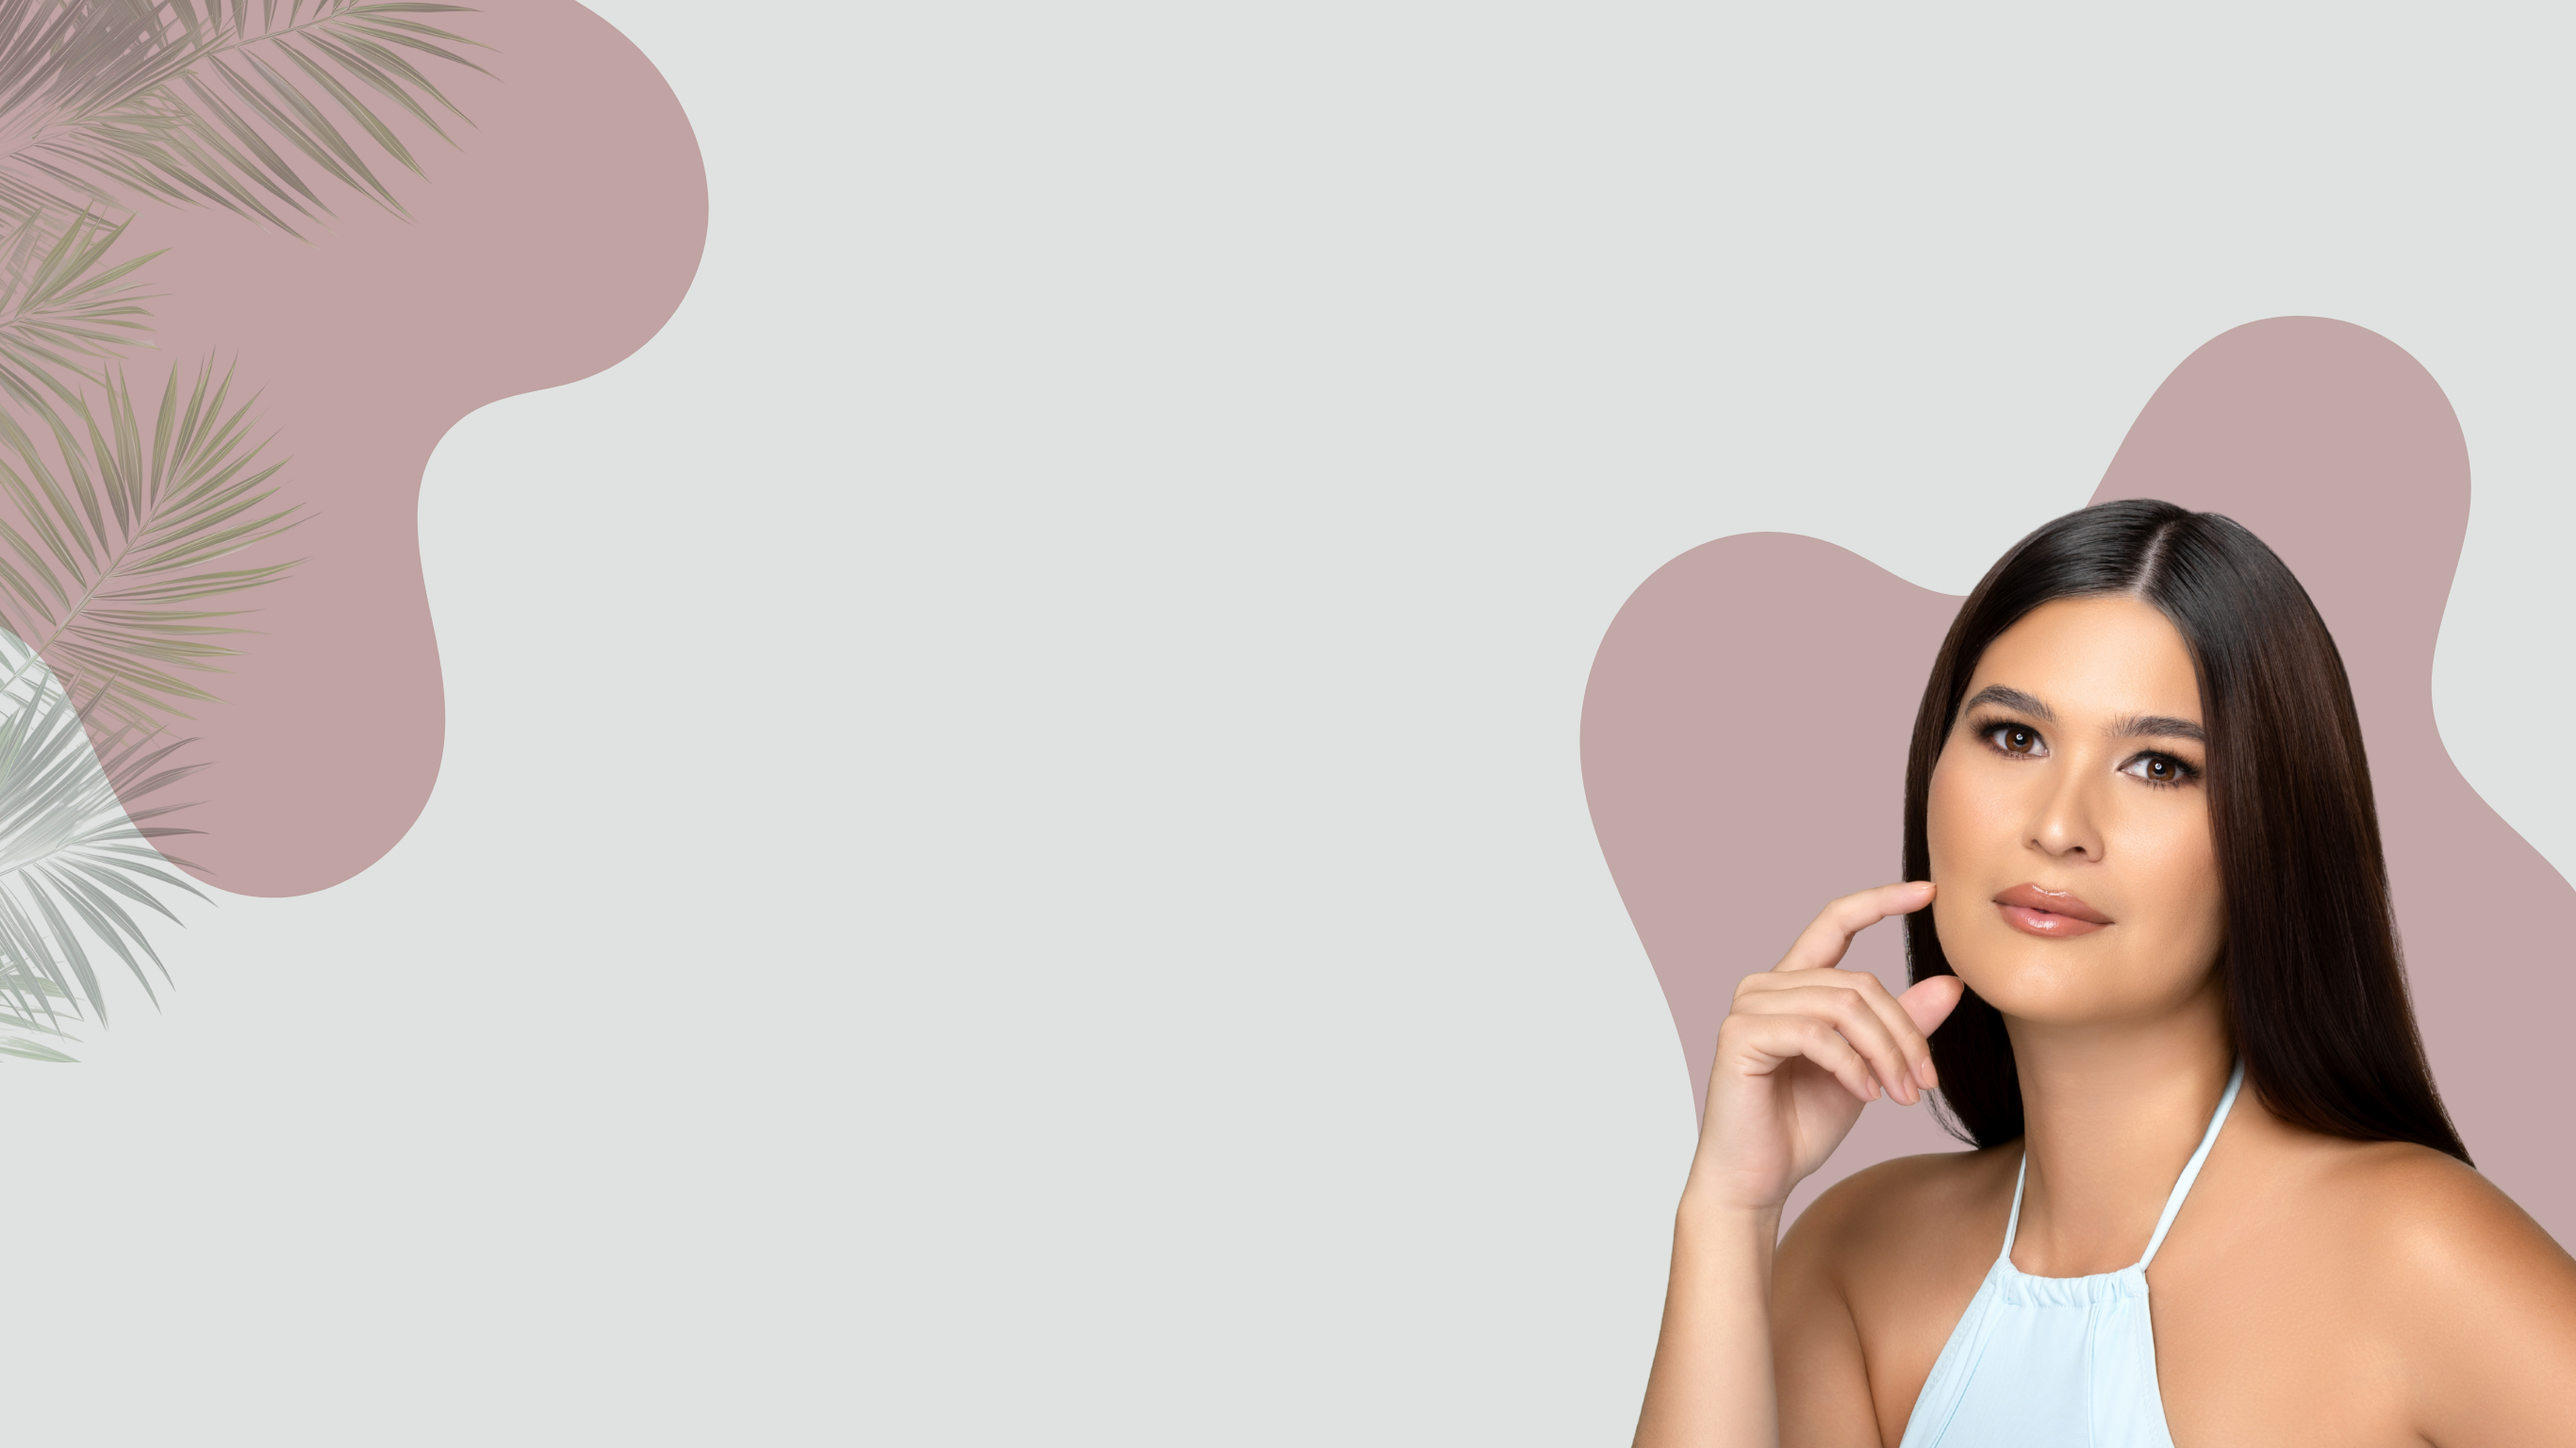
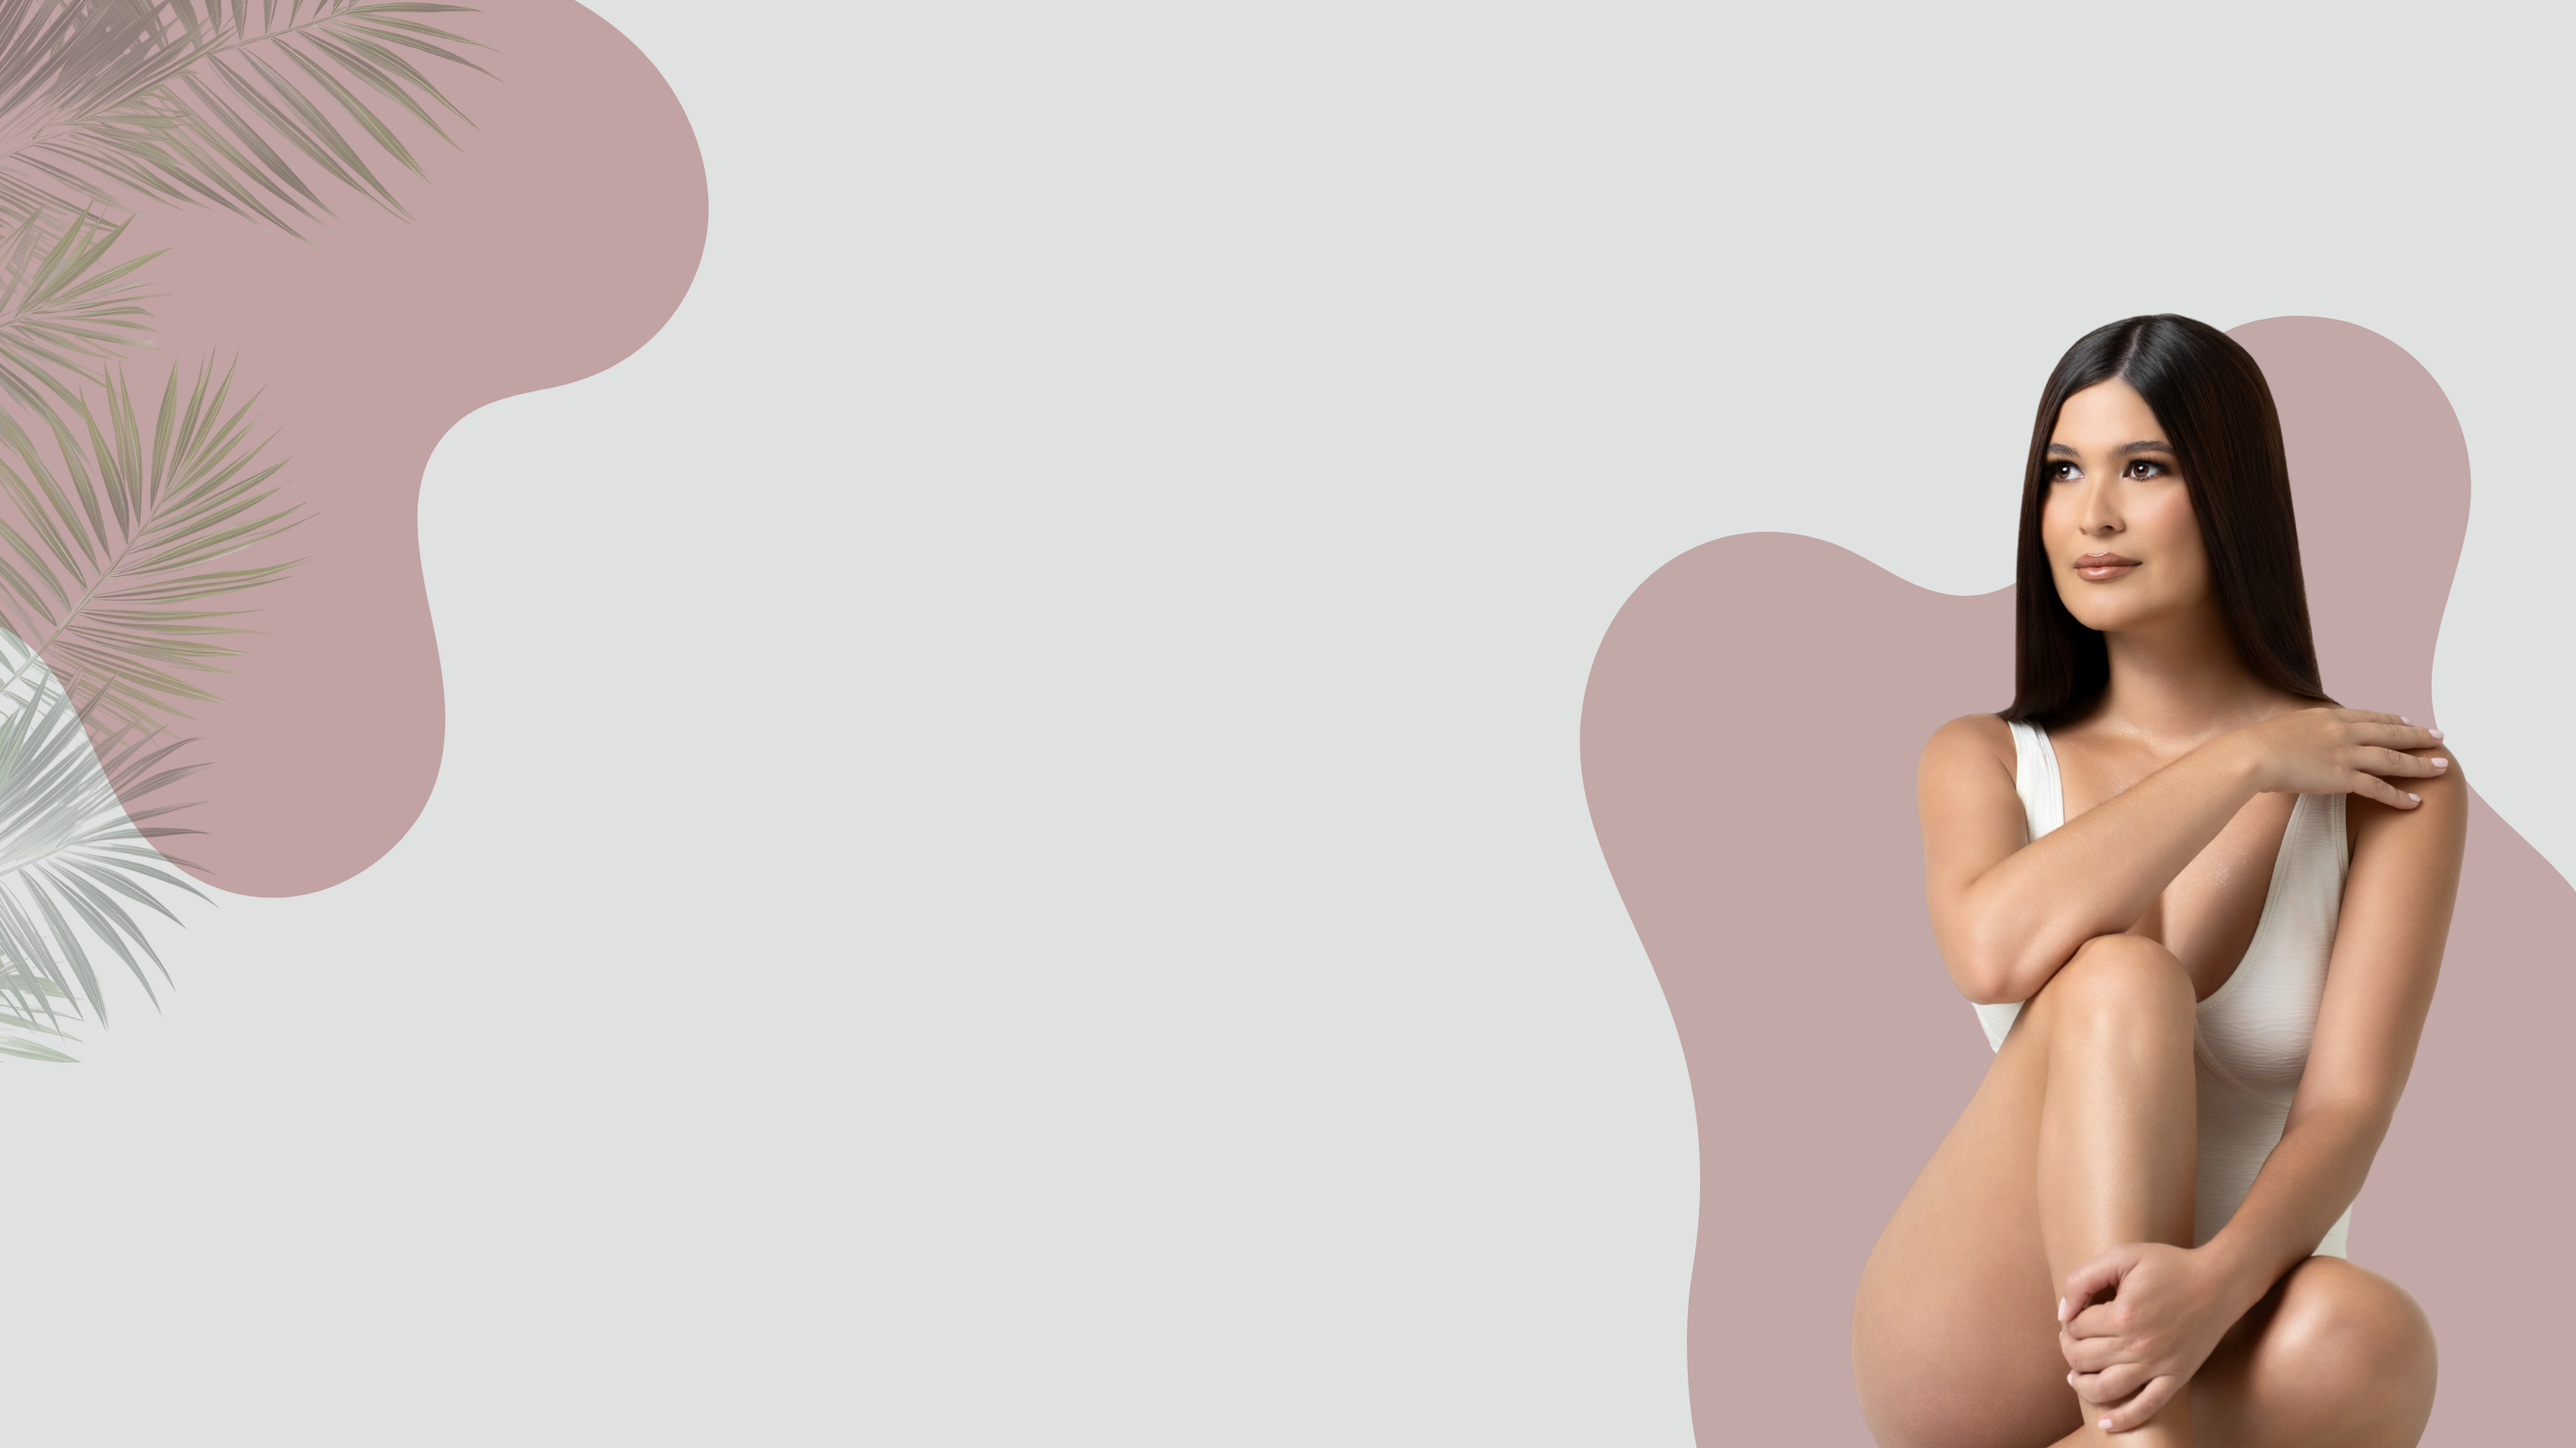
cambio link y foto

Changed region(s): [[0.6223, 0.2188, 1.0, 1.0]]

diff --git a/index.html b/index.html
@@ -264,7 +264,7 @@
               <div class="col-xs-12 col-sm-12 col-md-12" style="display:flex;justify-content:center;">
                 <div class="widget-social-icon pull-none">
                   <a target='_blank' href="https://www.instagram.com/genesishsb/" style="text-decoration: none;"><i class="fa-brands fa-instagram"></i><i class="fa-brands fa-instagram"></i></a>
-                  <a target='_blank' href="https://www.tiktok.com/@piedyccs5" style="text-decoration: none;"><i class="fab fa-tiktok"></i><i class="fa-brands fa-tiktok"></i></a>
+                  <a target='_blank' href="https://www.tiktok.com/@genesishsb" style="text-decoration: none;"><i class="fab fa-tiktok"></i><i class="fa-brands fa-tiktok"></i></a>
                   <!-- <a target='_blank' href="https://wa.link/84zv5s"><i class="fa-brands fa-whatsapp"></i><i class="fa-brands fa-whatsapp"></i></a> -->
                 </div>
               </div>
